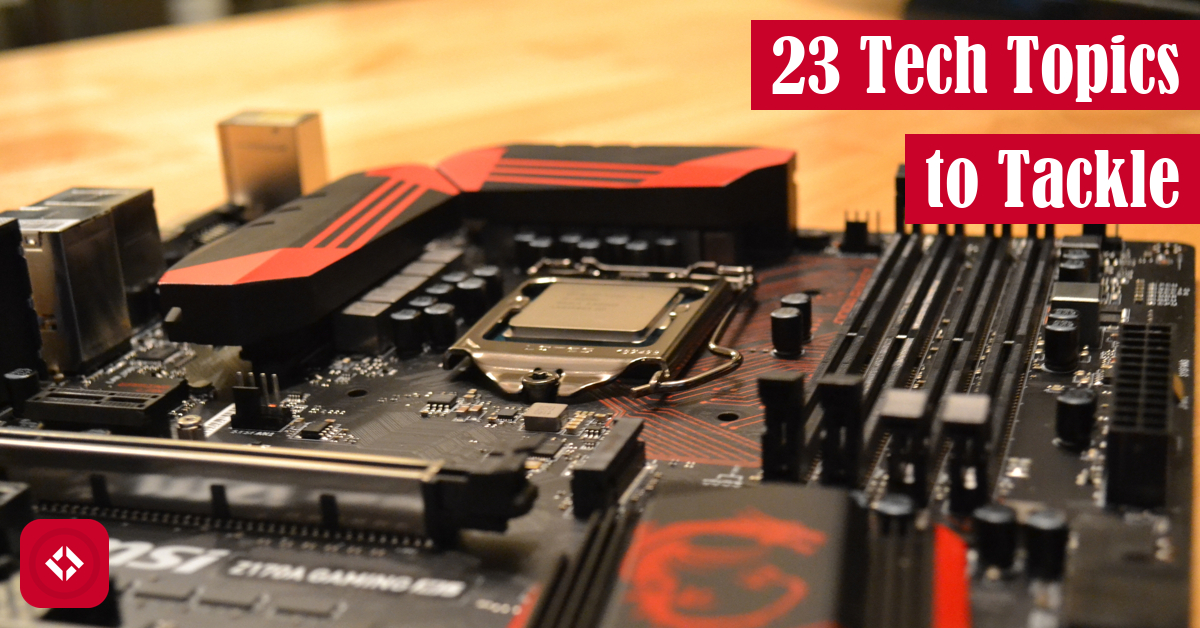
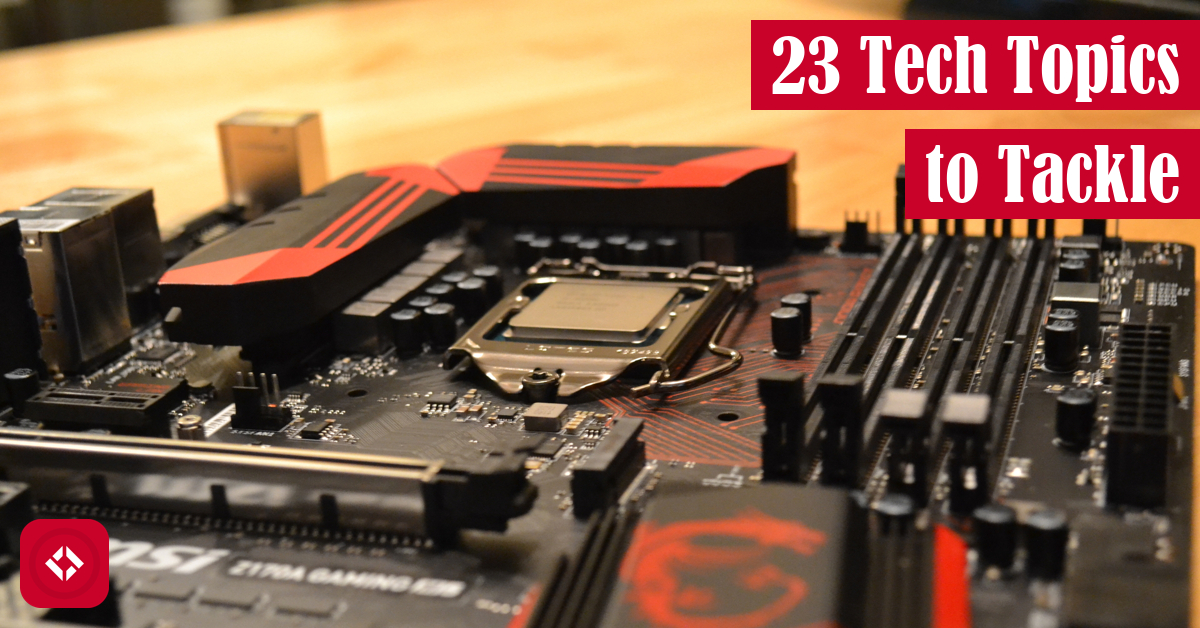
Made space between bars same as top space

Changed region(s): [[0.74, 0.1815, 1.0, 0.3631]]

diff --git a/imagetitler/draw.py b/imagetitler/draw.py
@@ -16,7 +16,7 @@ RECTANGLE_FILL = (201, 2, 41)
 WHITE = (255, 255, 255, 0)
 
 TOP_RECTANGLE_Y = 20
-X_OFFSET = 20
+X_OFFSET = TOP_RECTANGLE_Y
 LOGO_PADDING = TOP_RECTANGLE_Y
 
 
@@ -252,7 +252,7 @@ def _draw_overlay(image: Image.Image, color: tuple, **kwargs) -> Image:
         _draw_rectangle(draw, TOP_RECTANGLE_Y, width, color, **kwargs)
         _draw_text(draw, top_position, top_half_text, font)
 
-        bottom_rectangle_y = TOP_RECTANGLE_Y + _get_bar_height(**kwargs) + 25
+        bottom_rectangle_y = TOP_RECTANGLE_Y + _get_bar_height(**kwargs) + TOP_RECTANGLE_Y
 
         # Draw bottom
         if bottom_half_text:

diff --git a/imagetitler/tests/test_utilities.py b/imagetitler/tests/test_utilities.py
@@ -254,6 +254,10 @@ class TestIntegration(TestUtilities):
         batch = ["image-titler", "-b"]
         TestIntegration._generate_batch_test_images(batch)
 
+    def test_size_youtube(self) -> None:
+        size = ["image-titler", "-s", "YouTube", "--title", "Test YouTube Size"]
+        TestIntegration._generate_solo_test_image(size)
+
 
 class TestParseInput(TestUtilities):
     """
